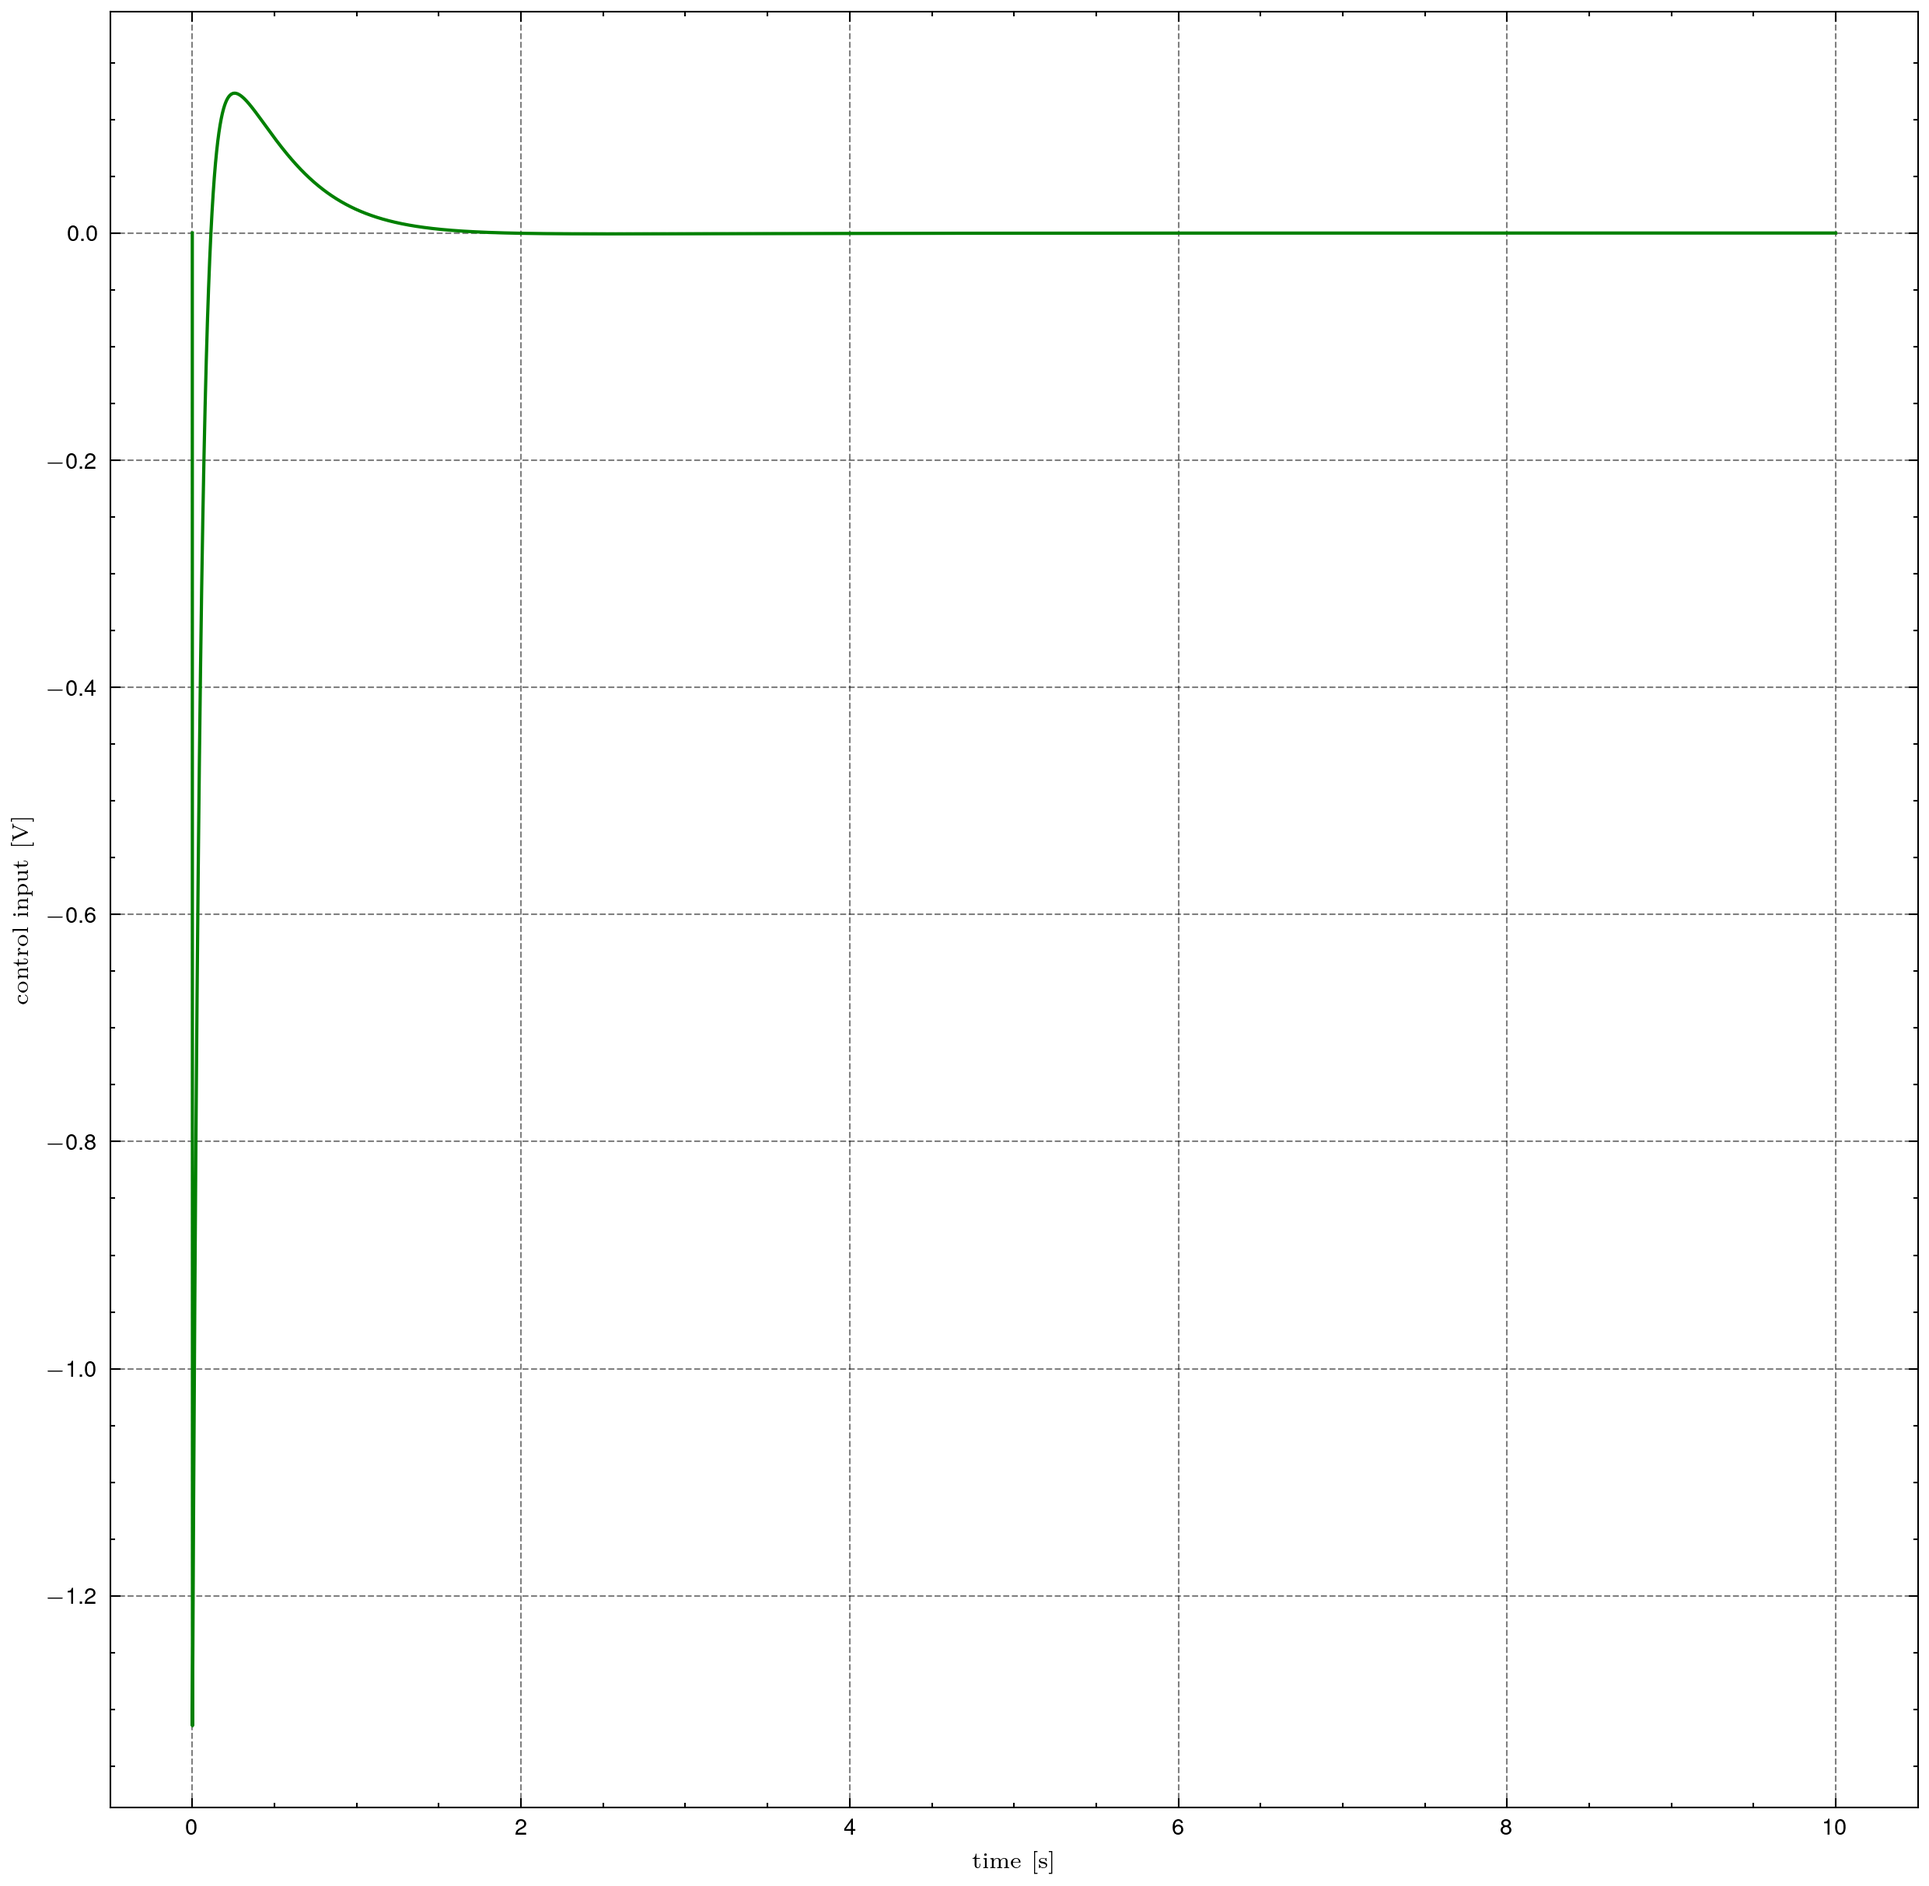
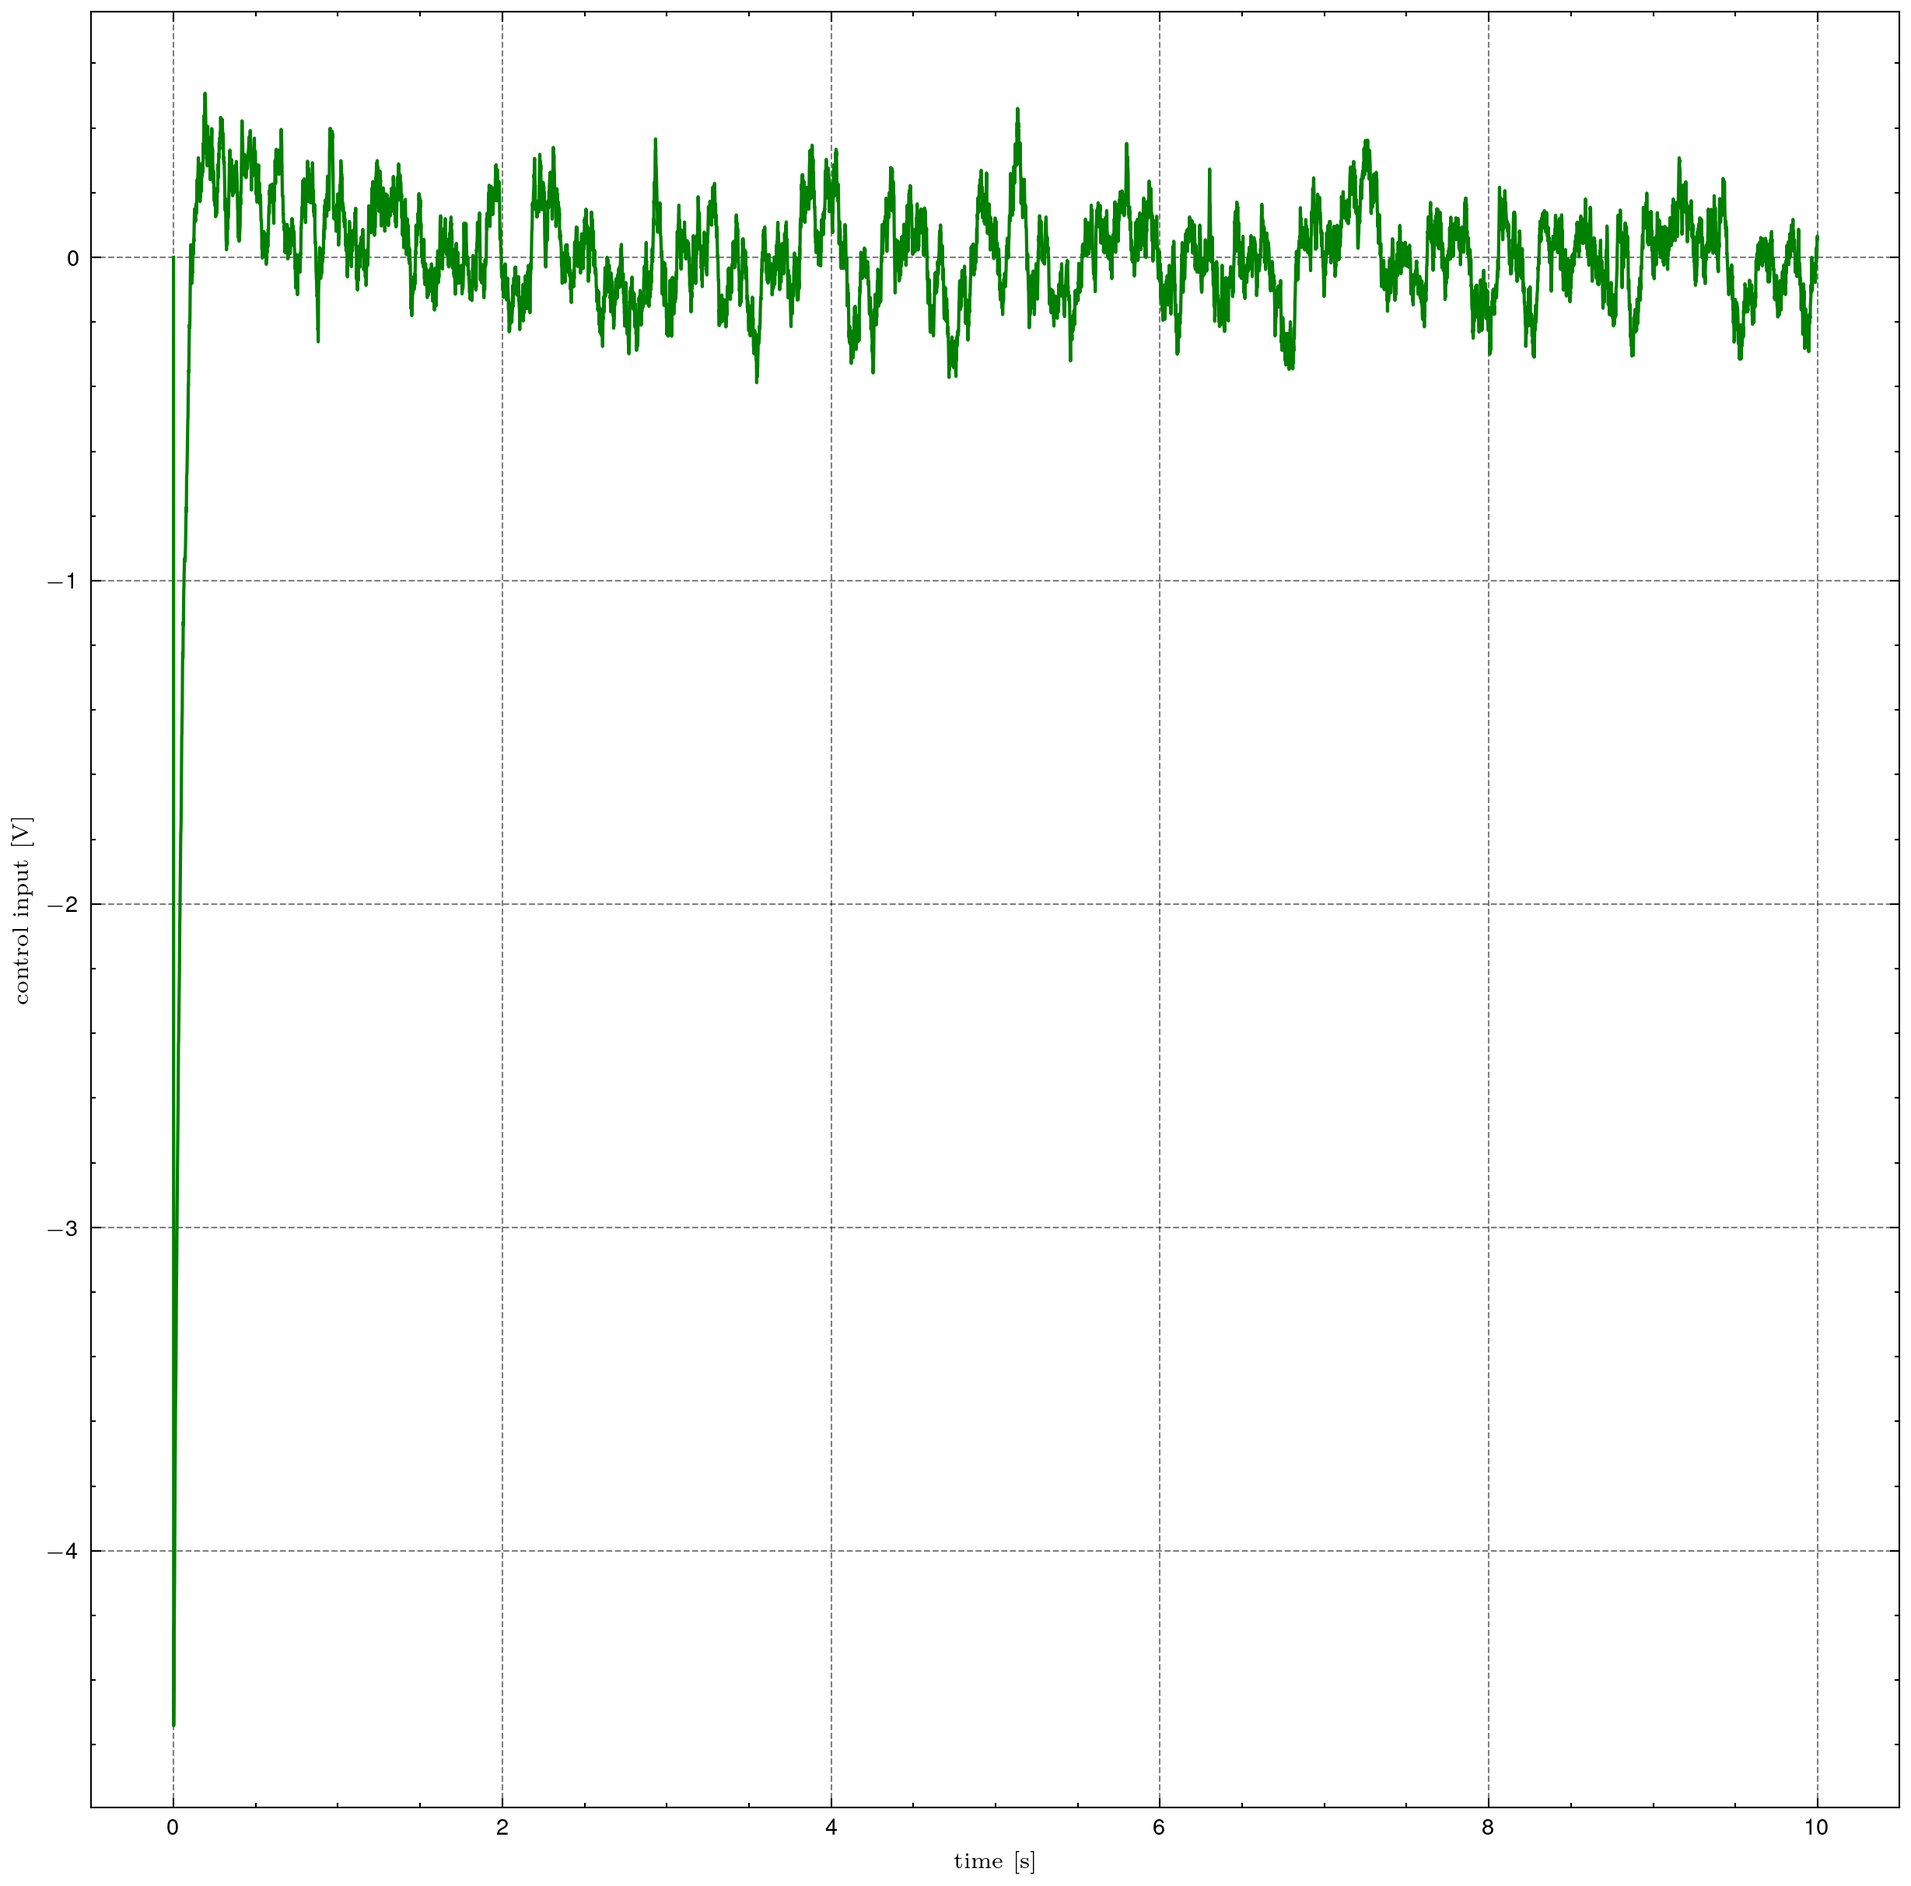
-.

diff --git a/main.py b/main.py
@@ -15,9 +15,12 @@ plt.rcParams['font.size'] = 12
 A, B, C, D = load_matrices()
 K = find_controller()
 
+print("A eigenvalues:", np.linalg.eigvals(A))
+print('A + BK eigenvalues:', np.linalg.eigvals(A + B @ K))
+
 initial_condition = np.array([
   [.0],
-  [.0],
+  [np.radians(10)],
   [.0],
   [.0]
 ])
